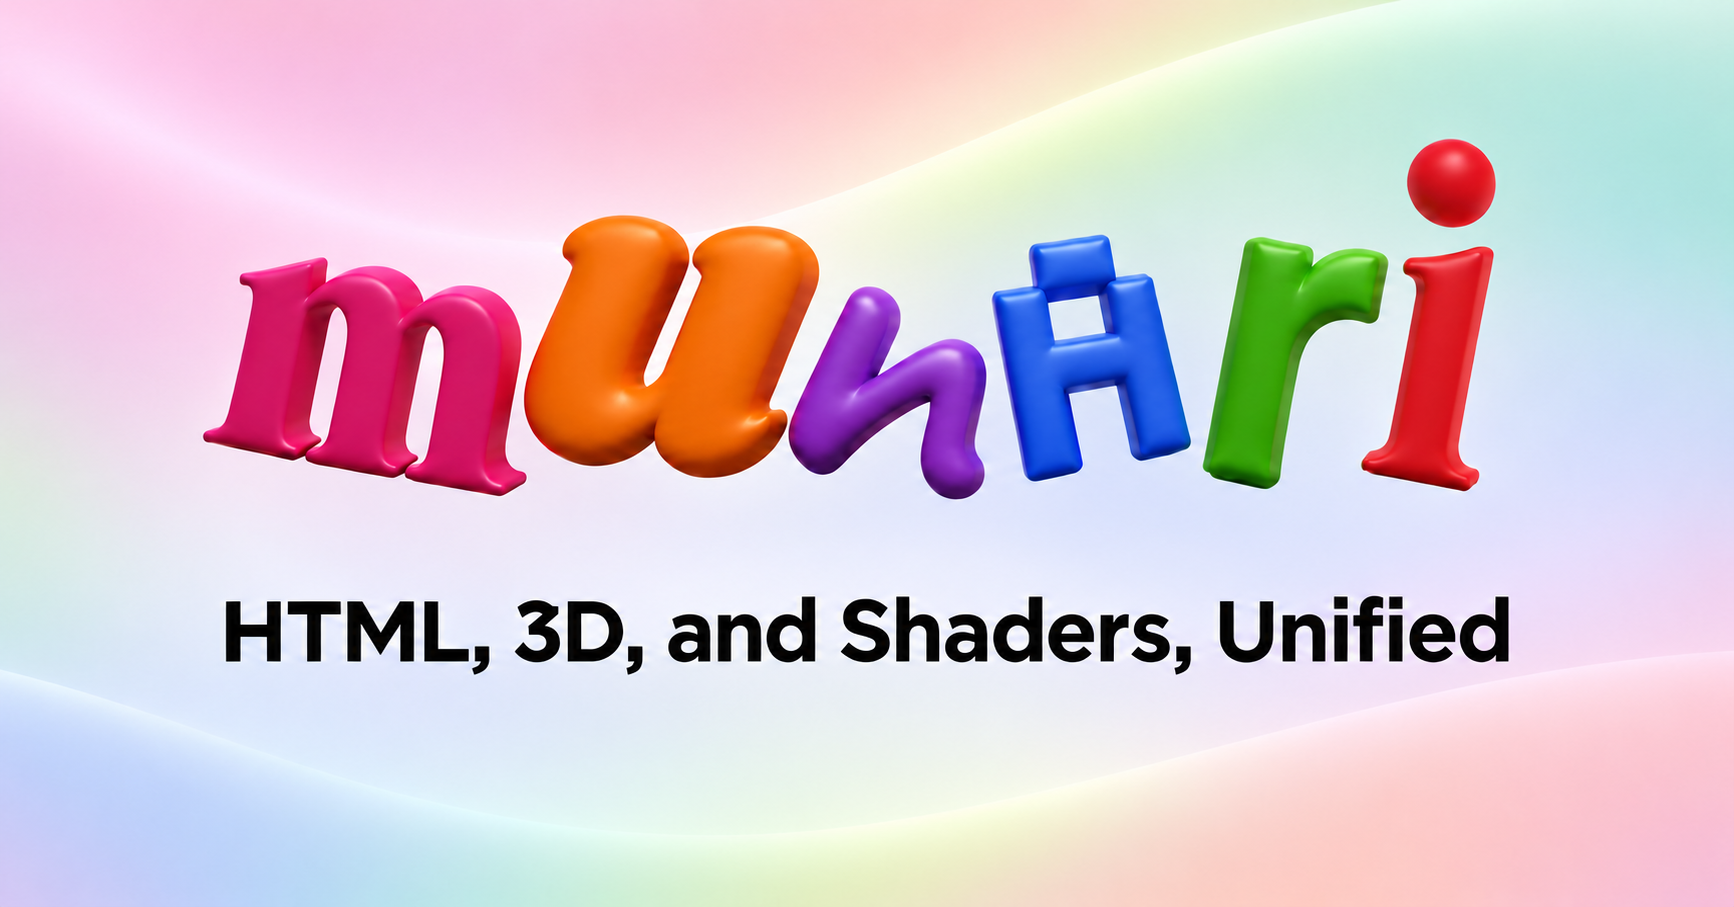
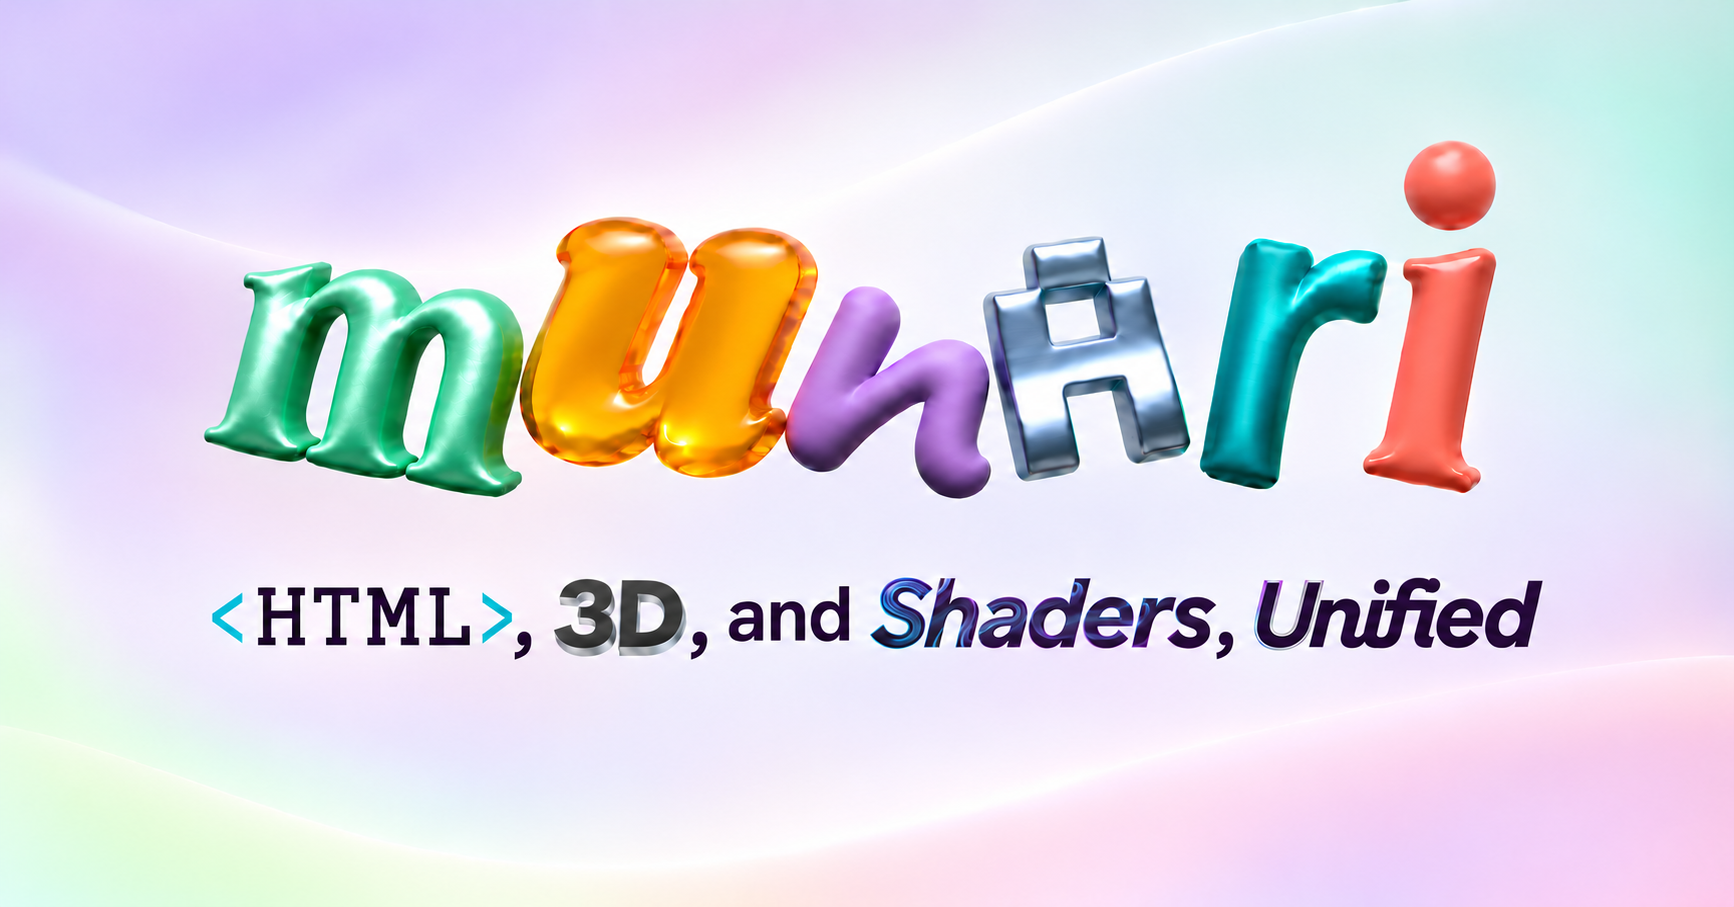
Refine Munari social preview with mint Contour design

diff --git a/apps/lab/index.html b/apps/lab/index.html
@@ -35,7 +35,7 @@
     <meta property="og:title" content="Munari · Live HTML in 3D" />
     <meta property="og:description" content="Explore live HTML in a Three.js scene. Munari is an experimental React library for physical interfaces, materials, and motion." />
     <meta property="og:url" content="https://munari.vercel.app/" />
-    <meta property="og:image" content="https://munari.vercel.app/og-image.png" />
+    <meta property="og:image" content="https://munari.vercel.app/og-image.png?v=contour-mint" />
     <meta property="og:image:type" content="image/png" />
     <meta property="og:image:width" content="1734" />
     <meta property="og:image:height" content="907" />
@@ -43,7 +43,7 @@
     <meta name="twitter:card" content="summary_large_image" />
     <meta name="twitter:title" content="Munari · Live HTML in 3D" />
     <meta name="twitter:description" content="Explore live HTML in a Three.js scene. Munari is an experimental React library for physical interfaces, materials, and motion." />
-    <meta name="twitter:image" content="https://munari.vercel.app/og-image.png" />
+    <meta name="twitter:image" content="https://munari.vercel.app/og-image.png?v=contour-mint" />
     <meta name="twitter:image:alt" content="Colorful 3D Munari letters over soft pastel waves. HTML, 3D, and Shaders, Unified." />
     <!-- The demo's own permission. An origin-trial token is a signed claim —
          "this origin may use HTMLInCanvas until this date" — that Chrome
